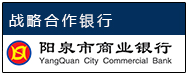
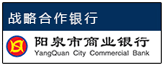
2015-11-1 20:24
LOGO图标修改

Changed region(s): [[0.0, 0.0, 1.0, 0.9846]]

diff --git a/views/scsg/skin/black/css/public.css b/views/scsg/skin/black/css/public.css
@@ -227,7 +227,7 @@ width: 100%;
 z-index: 70;
 }
 .search .logo {
-width: 370px;
+width: 400px;
 height: 75px;
 margin-top: 16px;
 position: absolute;
